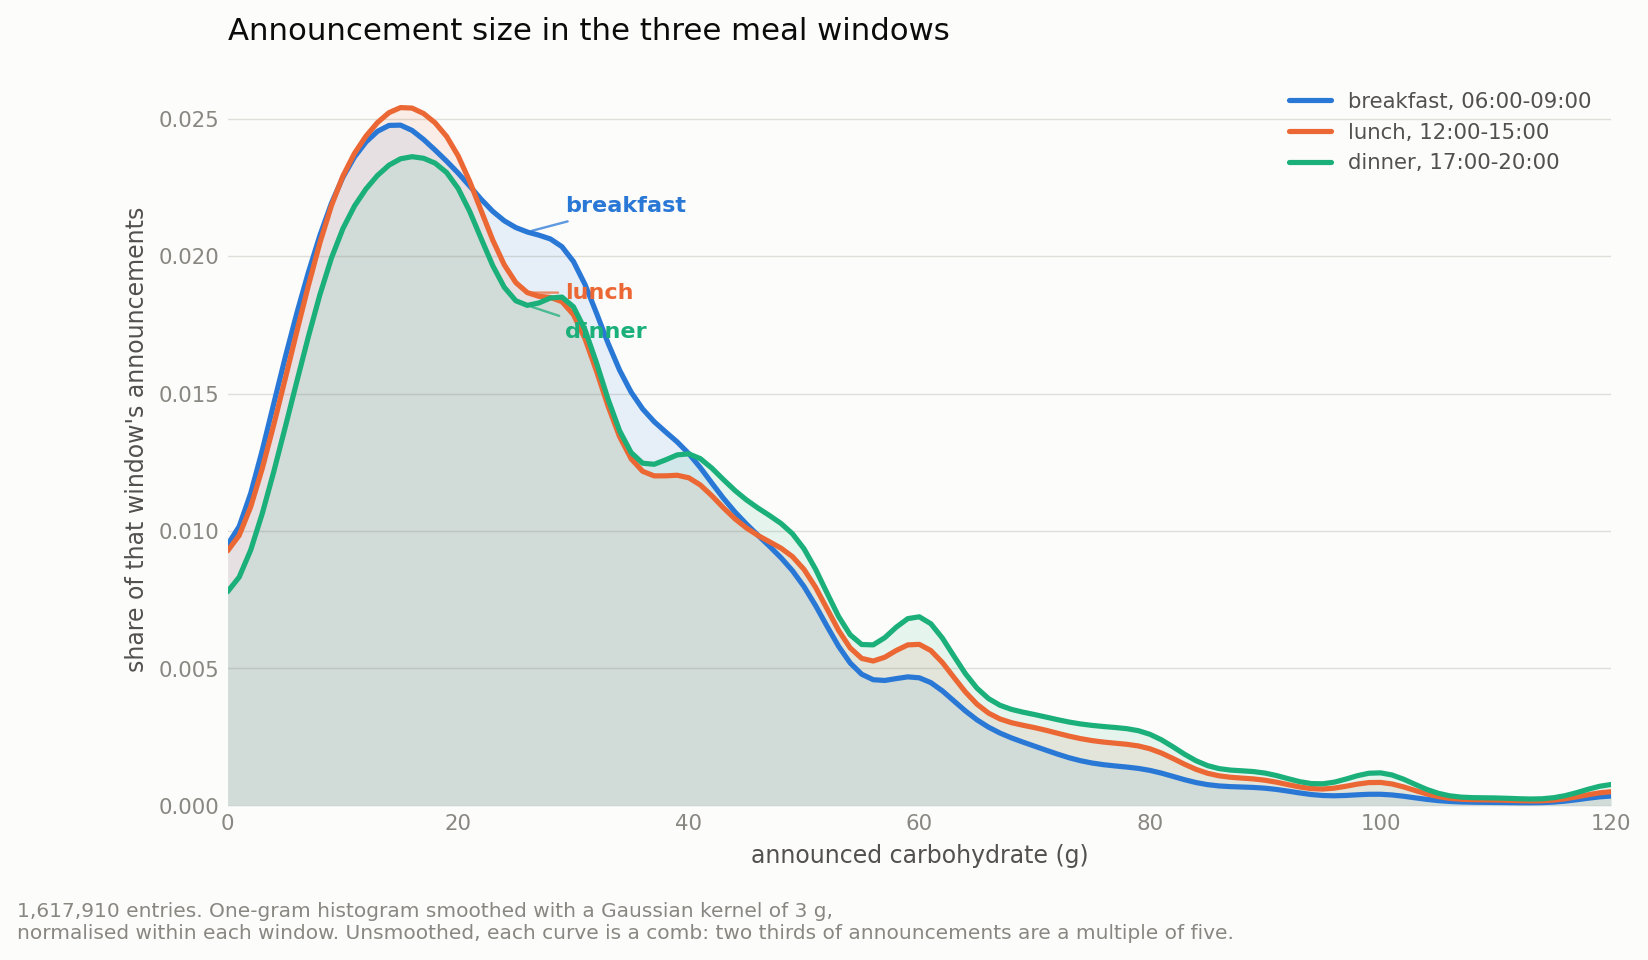
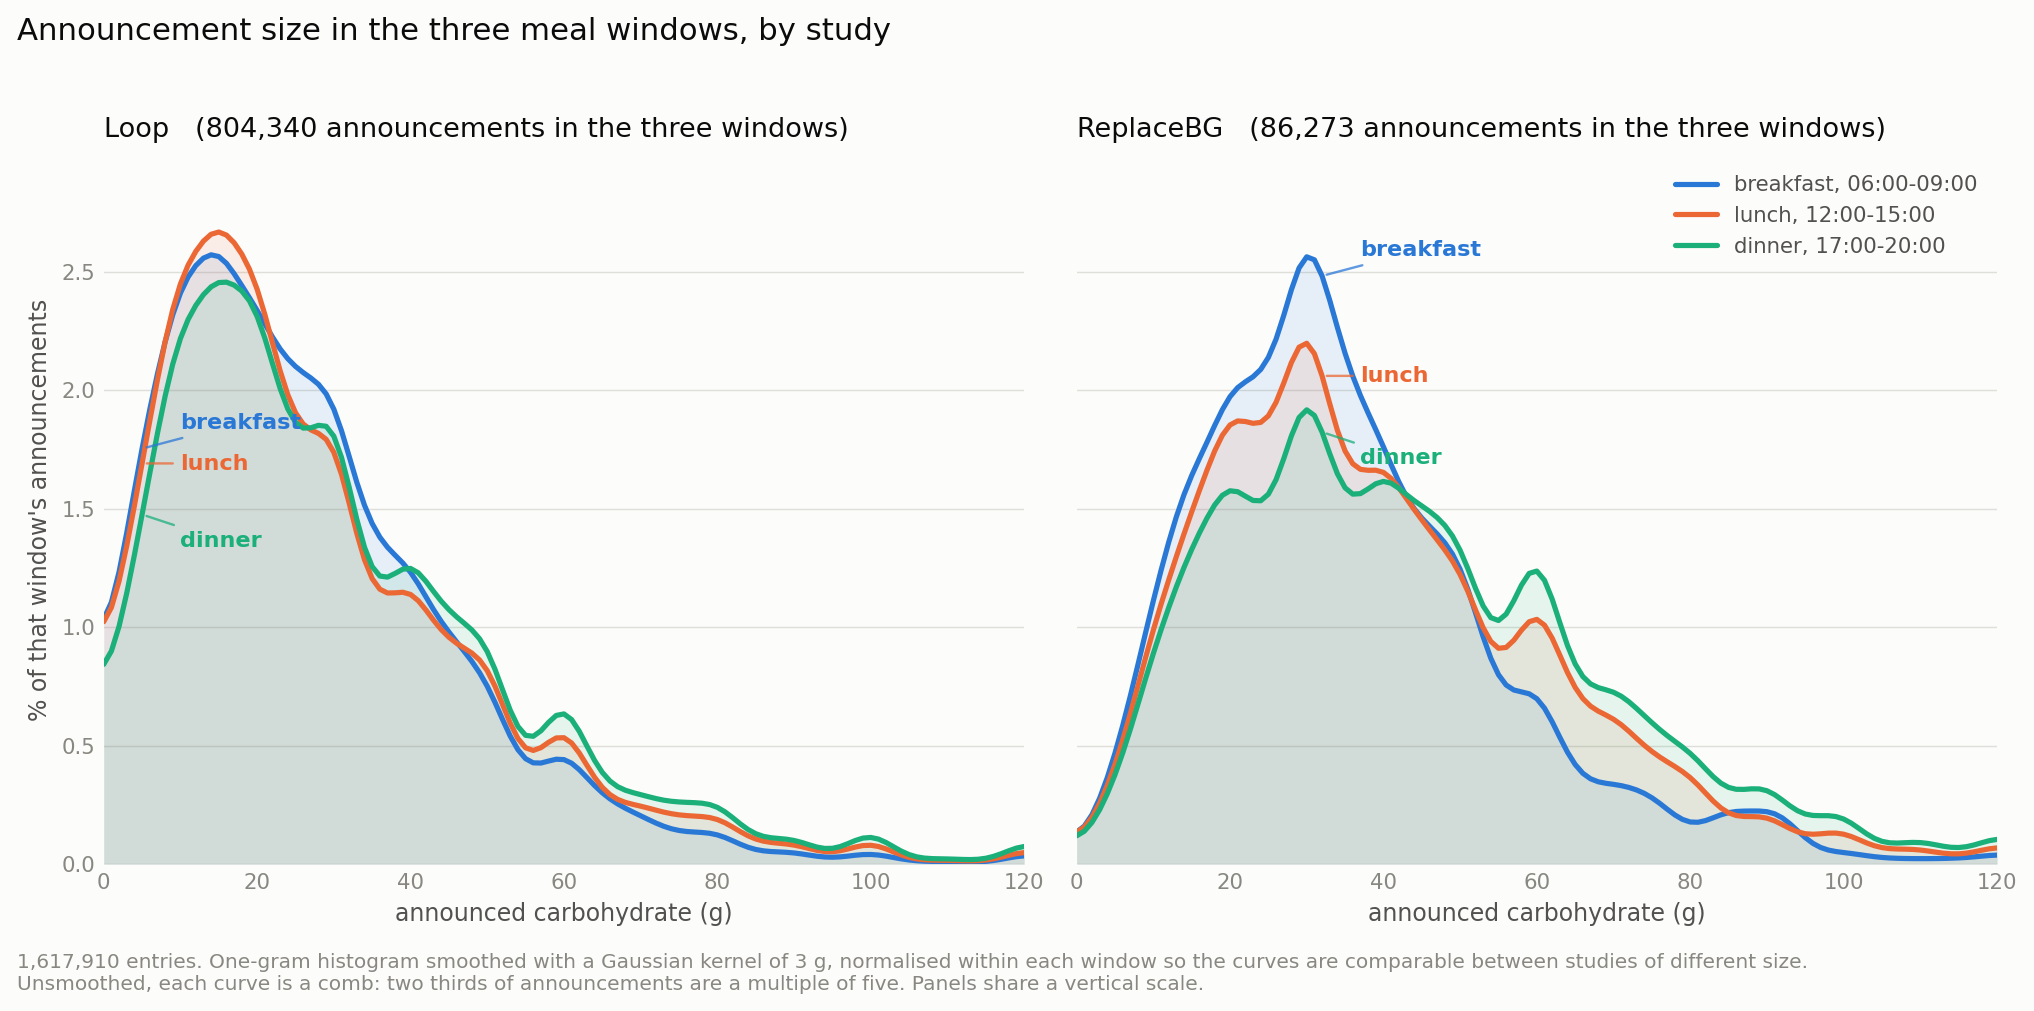
backtest(meal clock): split the window curves by study, and label the axis as a percentage
Splitting them overturns what the pooled figure said. Loop contributes 90 per cent
of the carbohydrate entries, so the pooled distribution was Loop's with a little
ReplaceBG mixed in, and the finding that the three meal windows share an identical
25 g median was a property of one corpus reported as a property of both.

Loop is flat across the day, medians 24, 23 and 25 g, and peaks near 15 g.
ReplaceBG rises steadily, 32, 35 and 40 g, and peaks near 30. So whether meal
windows carry size information depends on which population is being described.

The likely reason is what the two groups were doing rather than what they ate. Loop
participants ran a closed loop and entered carbohydrate about twice as often per
person in smaller amounts, which is the pattern of announcing snacks and
corrections alongside meals; ReplaceBG participants on sensor-augmented pump
therapy a decade earlier appear to have announced meals. The report marks that as
an interpretation rather than a measurement.

Two panels rather than six curves on one axis, because with six the studies would
be separable only by line style and the comparison a reader wants, window against
window, becomes the harder of the two. Panels share a vertical scale so the
difference in shape between corpora is visible and not an artefact of scaling.

Vertical axis is now a percentage of that window's announcements.

Claude-Session: https://claude.ai/code/session_016VyQsqdmejUkeKhSJoxZmH

diff --git a/backtesting/scripts/2026-09-meal-clock/meal_windows.py b/backtesting/scripts/2026-09-meal-clock/meal_windows.py
@@ -34,8 +34,9 @@ HERE = os.path.dirname(os.path.abspath(__file__))
 
 
 def load(exclude_rescue):
-    q = """select extract(hour from c.ts_local)::int hr, c.carbs_g
-           from studies.carbs c where c.carbs_g > 0"""
+    q = """select s.study_name, extract(hour from c.ts_local)::int hr, c.carbs_g
+           from studies.carbs c join studies.subject s using (subject_id)
+           where c.carbs_g > 0"""
     with psycopg2.connect(DSN) as con:
         d = pd.read_sql(q, con)
     if exclude_rescue:
@@ -46,19 +47,19 @@ def load(exclude_rescue):
 
 
 def curves(d, max_carbs, sigma):
-    """One-gram histogram per window, Gaussian-smoothed, normalised to a density."""
+    """One-gram histogram per window, Gaussian-smoothed, as a percentage of that window."""
     grid = np.arange(0, max_carbs + 1)
     out = {}
     for name, lo, hi, colour in WINDOWS:
         v = d.carbs_g[(d.hr >= lo) & (d.hr < hi)].values.astype(float)
         h, _ = np.histogram(v[v <= max_carbs], bins=np.arange(0, max_carbs + 2))
         y = gaussian_filter1d(h.astype(float), sigma)
-        y = y / y.sum()
+        y = 100.0 * y / y.sum()
         out[name] = dict(grid=grid, y=y, v=v, colour=colour, lo=lo, hi=hi)
     return out
 
 
-def report(d, cur, path, max_carbs, sigma, exclude_rescue):
+def report(d, cur, by_study, path, max_carbs, sigma, exclude_rescue):
     L, P = [], None
     P = L.append
     tot = len(d)
@@ -81,10 +82,10 @@ def report(d, cur, path, max_carbs, sigma, exclude_rescue):
     iqr = {n: st[n]["75%"] - st[n]["25%"] for n in st}
     P("\n## What differs between the windows, and what does not\n")
     if len(set(meds.values())) == 1:
-        P(f"\nThe median is the same {list(meds.values())[0]:.0f} g in all three windows. Not "
-          f"close: identical. Against an interquartile range of {min(iqr.values()):.0f} to "
-          f"{max(iqr.values()):.0f} g inside each window, knowing which meal it is tells you "
-          f"nothing about the middle of the distribution.\n")
+        P(f"\nPooled, the median is the same {list(meds.values())[0]:.0f} g in all three "
+          f"windows, against an interquartile range of {min(iqr.values()):.0f} to "
+          f"{max(iqr.values()):.0f} g inside each. That pooled figure is misleading and the "
+          f"by-study section below shows why.\n")
     else:
         big = max(meds, key=meds.get); small = min(meds, key=meds.get)
         P(f"\nMedians run from {meds[small]:.0f} g at {small} to {meds[big]:.0f} g at {big}, a "
@@ -100,57 +101,101 @@ def report(d, cur, path, max_carbs, sigma, exclude_rescue):
     P(f"\nThe curves are a one-gram histogram smoothed with a Gaussian kernel of "
       f"{sigma:.0f} g. Without smoothing each is a comb, because two thirds of announcements are "
       f"a multiple of five.\n")
+    P("\n## By study\n")
+    P("\nCarbohydrate is recorded by two of the seven corpora, and the pooled figures above are "
+      "not a description of both. Loop contributes 90 per cent of the entries, so pooling reports "
+      "Loop's behaviour with a little ReplaceBG mixed in.\n")
+    P("\n| study | window | announcements | 25th | median | 75th | mean |")
+    P("|---|---|---|---|---|---|---|")
+    for st in sorted(by_study):
+        for name, lo, hi, _ in WINDOWS:
+            v = pd.Series(by_study[st][name]["v"])
+            q = v.quantile([.25, .5, .75])
+            P(f"| {st} | {name} | {len(v):,} | {q[.25]:.0f} | {q[.5]:.0f} | {q[.75]:.0f} | "
+              f"{v.mean():.0f} |")
+    P("\nAll sizes in grams.\n")
+    lo_s, hi_s = sorted(by_study)
+    def med(st, w):
+        return float(pd.Series(by_study[st][w]["v"]).median())
+    for st in sorted(by_study):
+        ms = [med(st, w[0]) for w in WINDOWS]
+        span = max(ms) - min(ms)
+        P(f"\nIn {st} the medians run "
+          + ", ".join(f"{w[0]} {m:.0f} g" for w, m in zip(WINDOWS, ms))
+          + f", a span of {span:.0f} g across the day.\n")
+    P("\nSo the two corpora disagree about the thing the windows were meant to test. Loop is "
+      "flat across the day and peaks near 15 g. ReplaceBG rises steadily from breakfast to dinner "
+      "and peaks near 30 g. Any statement about whether meal windows carry size information "
+      "depends on which population is being described, and the pooled answer is Loop's.\n")
+    P("\nThe likely reason is what the two groups were doing. Loop participants ran a closed "
+      "loop and entered carbohydrate about twice as often per person, in smaller amounts, which "
+      "is the pattern of announcing snacks and corrections as well as meals. ReplaceBG "
+      "participants, on sensor-augmented pump therapy a decade earlier, appear to have announced "
+      "meals. That is an interpretation of the difference rather than a measurement of it.\n")
     open(path, "w").write("\n".join(L))
     return "\n".join(L)
 
 
-def figure(cur, path, max_carbs, sigma, n_total):
+def figure(by_study, path, max_carbs, sigma, n_total):
+    """One panel per study. Carbohydrate is recorded by two of the seven corpora, so this is a
+    two-panel small multiple rather than six curves on one axis, where the studies would be told
+    apart only by line style and the comparison the reader wants, window against window, would be
+    the harder of the two to make."""
     import matplotlib
     matplotlib.use("Agg")
     import matplotlib.pyplot as plt
 
-    fig, ax = plt.subplots(figsize=(10.5, 5.6), facecolor=SURFACE)
-    ax.set_facecolor(SURFACE)
-    for s in ax.spines.values():
-        s.set_visible(False)
-    ax.tick_params(colors=MUTED, labelsize=9, length=0)
-    ax.grid(axis="y", color=AXIS, linewidth=0.6, alpha=0.5)
-    ax.set_axisbelow(True)
+    studies = list(by_study)
+    fig, axes = plt.subplots(1, len(studies), figsize=(6.0 * len(studies), 5.4),
+                             facecolor=SURFACE, sharey=True)
+    axes = np.atleast_1d(axes)
+    ymax = max(c["y"].max() for cur in by_study.values() for c in cur.values())
 
-    for name, lo, hi, colour in WINDOWS:
-        c = cur[name]
-        ax.plot(c["grid"], c["y"], color=colour, linewidth=2.2, solid_capstyle="round",
-                label=f"{name}, {lo:02d}:00-{hi:02d}:00")
-        ax.fill_between(c["grid"], c["y"], color=colour, alpha=0.10, linewidth=0)
+    for ax, study in zip(axes, studies):
+        cur = by_study[study]
+        ax.set_facecolor(SURFACE)
+        for sp in ax.spines.values():
+            sp.set_visible(False)
+        ax.tick_params(colors=MUTED, labelsize=9, length=0)
+        ax.grid(axis="y", color=AXIS, linewidth=0.6, alpha=0.5)
+        ax.set_axisbelow(True)
+        for name, lo, hi, colour in WINDOWS:
+            c = cur[name]
+            ax.plot(c["grid"], c["y"], color=colour, linewidth=2.2, solid_capstyle="round",
+                    label=f"{name}, {lo:02d}:00-{hi:02d}:00")
+            ax.fill_between(c["grid"], c["y"], color=colour, alpha=0.10, linewidth=0)
+        # label where the curves are furthest apart, staggered by rank so the closest two
+        # cannot overlap; labelling at the mode stacks all three, since they peak together
+        ys = np.vstack([cur[n]["y"] for n, _, _, _ in WINDOWS])
+        xk = int(np.argmax(ys.max(axis=0) - ys.min(axis=0)))
+        order = sorted(WINDOWS, key=lambda w: -cur[w[0]]["y"][xk])
+        for i, (name, lo, hi, colour) in enumerate(order):
+            c = cur[name]
+            ax.annotate(name, (c["grid"][xk], c["y"][xk]), xytext=(16, 11 - 11 * i),
+                        textcoords="offset points", color=colour, fontsize=9.5,
+                        fontweight="bold", va="center", ha="left",
+                        arrowprops=dict(arrowstyle="-", color=colour, linewidth=1,
+                                        shrinkA=1, shrinkB=2, alpha=0.75))
+        n = sum(len(cur[w[0]]["v"]) for w in WINDOWS)
+        ax.set_title(f"{study}   ({n:,} announcements in the three windows)",
+                     color=INK, fontsize=11.5, loc="left", pad=8)
+        ax.set_xlim(0, max_carbs)
+        ax.set_ylim(0, ymax * 1.12)
+        ax.set_xlabel("announced carbohydrate (g)", color=INK2, fontsize=10)
+    axes[0].set_ylabel("% of that window's announcements", color=INK2, fontsize=10)
 
-    # All three peak within a few grams of each other, so labelling at the mode stacks them.
-    # Label instead where the curves are furthest apart, which is where a reader is trying to
-    # tell them apart anyway.
-    ys = np.vstack([cur[n]["y"] for n, _, _, _ in WINDOWS])
-    xk = int(np.argmax(ys.max(axis=0) - ys.min(axis=0)))
-    # two of the three can still be within a few pixels at that x, so stagger by rank rather
-    # than trust the gap: ordered top to bottom, each label is pushed clear of the one above
-    order = sorted(WINDOWS, key=lambda w: -cur[w[0]]["y"][xk])
-    for i, (name, lo, hi, colour) in enumerate(order):
-        c = cur[name]
-        ax.annotate(name, (c["grid"][xk], c["y"][xk]), xytext=(16, 11 - 11 * i),
-                    textcoords="offset points", color=colour, fontsize=9.5,
-                    fontweight="bold", va="center", ha="left",
-                    arrowprops=dict(arrowstyle="-", color=colour, linewidth=1,
-                                    shrinkA=1, shrinkB=2, alpha=0.75))
-
-    ax.set_xlim(0, max_carbs); ax.set_ylim(0, None)
-    ax.set_xlabel("announced carbohydrate (g)", color=INK2, fontsize=10)
-    ax.set_ylabel("share of that window's announcements", color=INK2, fontsize=10)
-    ax.set_title("Announcement size in the three meal windows", color=INK, fontsize=13,
-                 loc="left", pad=14)
-    leg = ax.legend(frameon=False, fontsize=9, loc="upper right")
+    leg = axes[-1].legend(frameon=False, fontsize=9, loc="upper right")
     for t in leg.get_texts():
         t.set_color(INK2)
-    fig.text(0.007, -0.03,
+    fig.suptitle("Announcement size in the three meal windows, by study",
+                 color=INK, fontsize=13, x=0.007, ha="left", y=1.02)
+    fig.text(0.007, -0.04,
              f"{n_total:,} entries. One-gram histogram smoothed with a Gaussian kernel of "
-             f"{sigma:.0f} g,\nnormalised within each window. Unsmoothed, each curve is a comb: "
-             f"two thirds of announcements are a multiple of five.", color=MUTED, fontsize=8.5)
+             f"{sigma:.0f} g, normalised within each window so the curves are comparable "
+             f"between studies of different size.\nUnsmoothed, each curve is a comb: two thirds "
+             f"of announcements are a multiple of five. Panels share a vertical scale.",
+             color=MUTED, fontsize=8.5)
+    fig.tight_layout()
     fig.savefig(path, dpi=170, bbox_inches="tight", facecolor=SURFACE)
     plt.close(fig)
 
@@ -165,9 +210,12 @@ def main():
 
     d = load(a.exclude_rescue)
     cur = curves(d, int(a.max_carbs), a.sigma)
-    txt = report(d, cur, os.path.join(a.out_dir, "MEAL_WINDOWS_REPORT.md"),
+    by_study = {st: curves(g, int(a.max_carbs), a.sigma)
+                for st, g in d.groupby("study_name")}
+    txt = report(d, cur, by_study, os.path.join(a.out_dir, "MEAL_WINDOWS_REPORT.md"),
                  a.max_carbs, a.sigma, a.exclude_rescue)
-    figure(cur, os.path.join(a.out_dir, "meal_windows.png"), int(a.max_carbs), a.sigma, len(d))
+    figure(by_study, os.path.join(a.out_dir, "meal_windows.png"),
+           int(a.max_carbs), a.sigma, len(d))
     print(txt)
     print(f"\nwritten to {a.out_dir}/MEAL_WINDOWS_REPORT.md and meal_windows.png")
 

diff --git a/backtesting/scripts/2026-09-meal-clock/MEAL_WINDOWS_REPORT.md b/backtesting/scripts/2026-09-meal-clock/MEAL_WINDOWS_REPORT.md
@@ -16,10 +16,40 @@ All sizes in grams.
 ## What differs between the windows, and what does not
 
 
-The median is the same 25 g in all three windows. Not close: identical. Against an interquartile range of 24 to 30 g inside each window, knowing which meal it is tells you nothing about the middle of the distribution.
+Pooled, the median is the same 25 g in all three windows, against an interquartile range of 24 to 30 g inside each. That pooled figure is misleading and the by-study section below shows why.
 
 
 What does differ is the upper tail. The 75th centile runs 39 g at breakfast against 45 g at dinner, and the means follow: breakfast 28 g, lunch 30 g, dinner 32 g. So the later windows are not made of bigger meals so much as of the same meals plus a heavier tail of large ones.
 
 
 The curves are a one-gram histogram smoothed with a Gaussian kernel of 3 g. Without smoothing each is a comb, because two thirds of announcements are a multiple of five.
+
+
+## By study
+
+
+Carbohydrate is recorded by two of the seven corpora, and the pooled figures above are not a description of both. Loop contributes 90 per cent of the entries, so pooling reports Loop's behaviour with a little ReplaceBG mixed in.
+
+
+| study | window | announcements | 25th | median | 75th | mean |
+|---|---|---|---|---|---|---|
+| Loop | breakfast | 202,114 | 13 | 24 | 36 | 27 |
+| Loop | lunch | 258,946 | 14 | 23 | 40 | 28 |
+| Loop | dinner | 343,280 | 15 | 25 | 40 | 31 |
+| ReplaceBG | breakfast | 21,120 | 22 | 32 | 46 | 36 |
+| ReplaceBG | lunch | 31,314 | 23 | 35 | 53 | 40 |
+| ReplaceBG | dinner | 33,839 | 25 | 40 | 60 | 45 |
+
+All sizes in grams.
+
+
+In Loop the medians run breakfast 24 g, lunch 23 g, dinner 25 g, a span of 2 g across the day.
+
+
+In ReplaceBG the medians run breakfast 32 g, lunch 35 g, dinner 40 g, a span of 8 g across the day.
+
+
+So the two corpora disagree about the thing the windows were meant to test. Loop is flat across the day and peaks near 15 g. ReplaceBG rises steadily from breakfast to dinner and peaks near 30 g. Any statement about whether meal windows carry size information depends on which population is being described, and the pooled answer is Loop's.
+
+
+The likely reason is what the two groups were doing. Loop participants ran a closed loop and entered carbohydrate about twice as often per person, in smaller amounts, which is the pattern of announcing snacks and corrections as well as meals. ReplaceBG participants, on sensor-augmented pump therapy a decade earlier, appear to have announced meals. That is an interpretation of the difference rather than a measurement of it.
